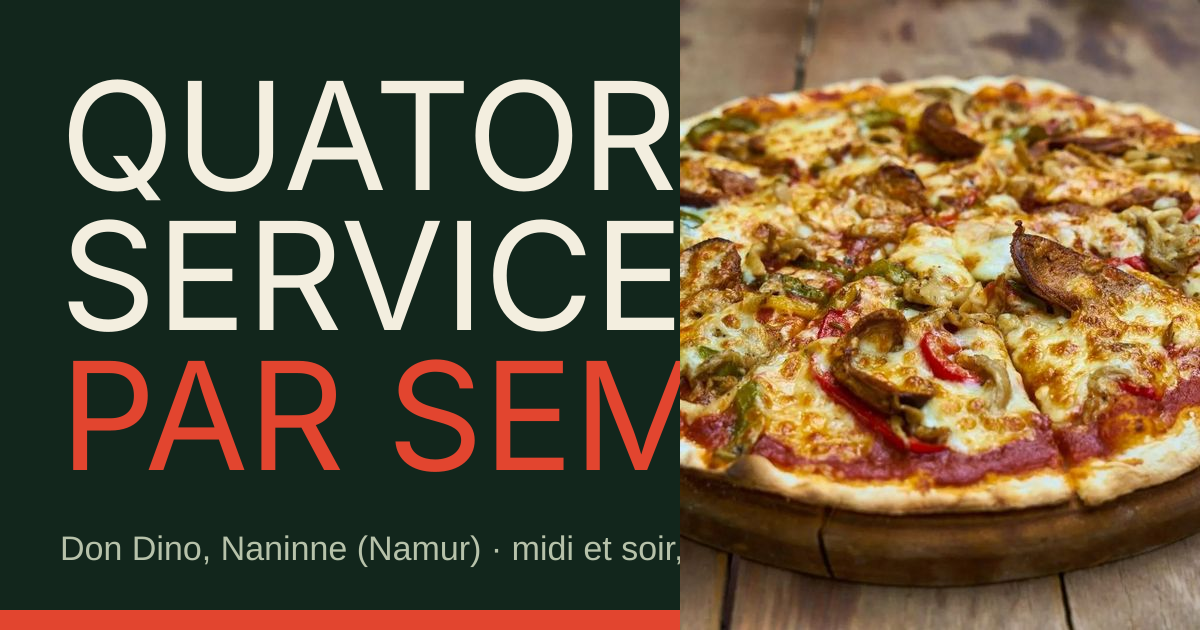
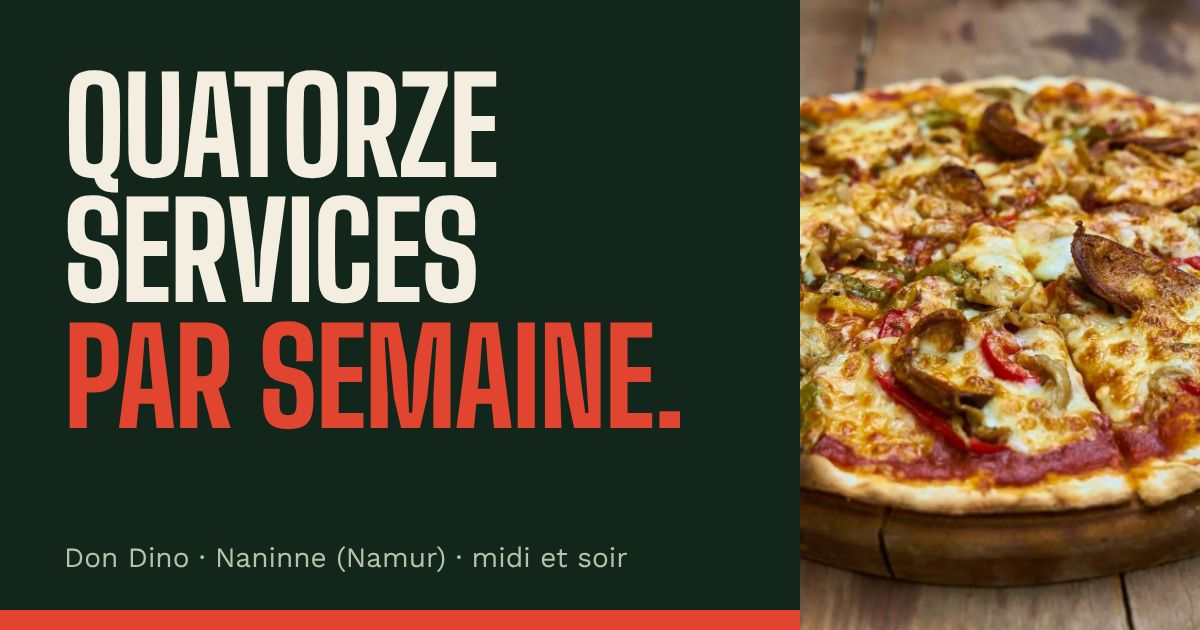
Corrige la revue 1 de Don Dino awwwards (accents, OG, textes, photo)
Claude-Session: https://claude.ai/code/session_01CZvTL6sJRfXzrD8TqanNB5

diff --git a/sites/don-dino-awwwards/src/styles/site.css b/sites/don-dino-awwwards/src/styles/site.css
@@ -4,7 +4,7 @@ body { background: var(--c-bg); color: var(--c-fg); }
 .wrap { width: 100%; max-width: 1920px; margin-inline: auto; padding-inline: var(--gutter); }
 .grille { display: grid; grid-template-columns: repeat(var(--cols), minmax(0, 1fr)); column-gap: var(--u); }
 .display { font-family: var(--f-display); font-weight: 800; text-transform: uppercase; letter-spacing: -0.012em; line-height: 0.9; text-wrap: balance; }
-.display--mega { font-size: var(--t-mega); letter-spacing: -0.02em; line-height: 0.86; }
+.display--mega { font-size: var(--t-mega); letter-spacing: -0.02em; line-height: 0.92; }
 .display--xl { font-size: var(--t-xl); letter-spacing: -0.016em; }
 .display--l { font-size: var(--t-l); letter-spacing: -0.01em; line-height: 0.95; }
 .petit { font-size: var(--t-s); color: var(--c-muted); }

diff --git a/sites/don-dino-awwwards/src/styles/engine.css b/sites/don-dino-awwwards/src/styles/engine.css
@@ -104,3 +104,4 @@ html:not(.js) #loader, #loader[hidden] { display: none; }
 @media (prefers-reduced-motion: reduce) {
   *, *::before, *::after { animation-duration: 0.01ms !important; animation-iteration-count: 1 !important; transition-duration: 0.01ms !important; scroll-behavior: auto !important; }
 }
+.split-line-mask { padding-top: 0.2em; margin-top: -0.2em; } /* accents des capitales dans le masque (revue 1, F1-1) */

diff --git a/sites/don-dino-awwwards/src/data/carte.ts b/sites/don-dino-awwwards/src/data/carte.ts
@@ -608,7 +608,7 @@ export const carte: Categorie[] = [
    },
    {
     "nom": "Mixed grilled",
-    "description": "min 2 cvts - prix/cvt",
+    "description": "par couvert, minimum 2",
     "prix": 35.7
    }
   ]

diff --git a/sites/don-dino-awwwards/REVISION-1.md b/sites/don-dino-awwwards/REVISION-1.md
@@ -1,0 +1,14 @@
+# Révision 1 · Don Dino awwwards
+
+| id | décision | changement (fichier) | preuve |
+|---|---|---|---|
+| F0 | rien à faire | - | revue : aucun |
+| F1-1 accents coupés | corrigé | `src/styles/engine.css` : `.split-line-mask { padding-top:.2em; margin-top:-.2em }` ; `site.css` : `.display--mega` interligne 0,86 à 0,92 (couvre aussi F3-1) | captures d'élément 1440 et 390 px après 4 s : RÉSERVER, PLUS À LA CARTE, PÂTES ET GRATINÉS, VENIR À NANINNE, LES PIZZAS… À LA TABLE : accents visibles, sans contact avec la ligne du dessus ; scrollWidth = fenêtre, 0 erreur console |
+| F2-1 OG | corrigé | `public/og.png` recomposée (Big Shoulders, 3 lignes entières, photo sur le tiers droit) | image ouverte : titre complet, sous-titre dans la zone verte |
+| F2-2 note de production | corrigé | `histoire.astro` : phrase retirée | grep dist : 0 |
+| F2-3 phrase | corrigé | `index.astro` : « Spaghetti, lasagne et cannelloni côtoient… » | grep dist : présente |
+| F2-4 photo du patron | corrigé | `index.astro` : photo de la salle (clé `salle`) à la place de l'homme non identifié | rendu : titre « Le patron est en salle. » sans portrait |
+| F3-2, F3-3, F3-5 | corrigés (bonus) | `carte.ts` « par couvert, minimum 2 » ; espace insécable avant « : » ; `reservation.astro` « Réservez par téléphone ou par demande en ligne… » | grep dist : 0 « cvts », 0 « un appel suffit » |
+| F3-4, F3-6 | non traités | hors liste ciblée | - |
+
+Hypothèse : la photo 09 reste dans les sources, non affichée. DESIGN.md inchangé.

diff --git a/data/usage/test-2/lecons-proposees/don-dino.md b/data/usage/test-2/lecons-proposees/don-dino.md
@@ -11,3 +11,4 @@
 - 2026-11-20 relecteur-site don-dino awwwards (passe 1) : un h1/h2 SplitText en capitales (text-transform) avec masque overflow: clip et interligne 0,86 perd ses accents (RESERVER, PLUS A LA CARTE) sans que axe, scrollWidth ni shoot.mjs le voient : capturer l'élément avec et sans `overflow: visible !important` sur `h1 *`; la « 404 » du QA est la page brute de serve.mjs (ses violations axe et cibles < 24 px ne sont pas celles du site) ; pngjs absent : comparer deux captures par Buffer.compare.
 2026-11-20 · revision : sur l'accueil mobile throttlé, is-loaded dépend surtout de DCL (JS reçu à ~3,2 s) ; raccourcir MIN/sortie du loader ne gagne que ~0,2 s, mesurer DCL avant de toucher au loader.
 2026-11-20 · revision : `git pull --rebase` sur arbre partagé (12 commits locaux, autres agents) a produit des conflits et a laissé le rebase bloqué ; pousser sans rebase lourd ou laisser la session mère pousser.
+2026-11-20 · reviseur-site : le masque SplitText s'appelle .split-line-mask (généré) ; y poser un padding-top pour les accents des capitales dès la construction.
